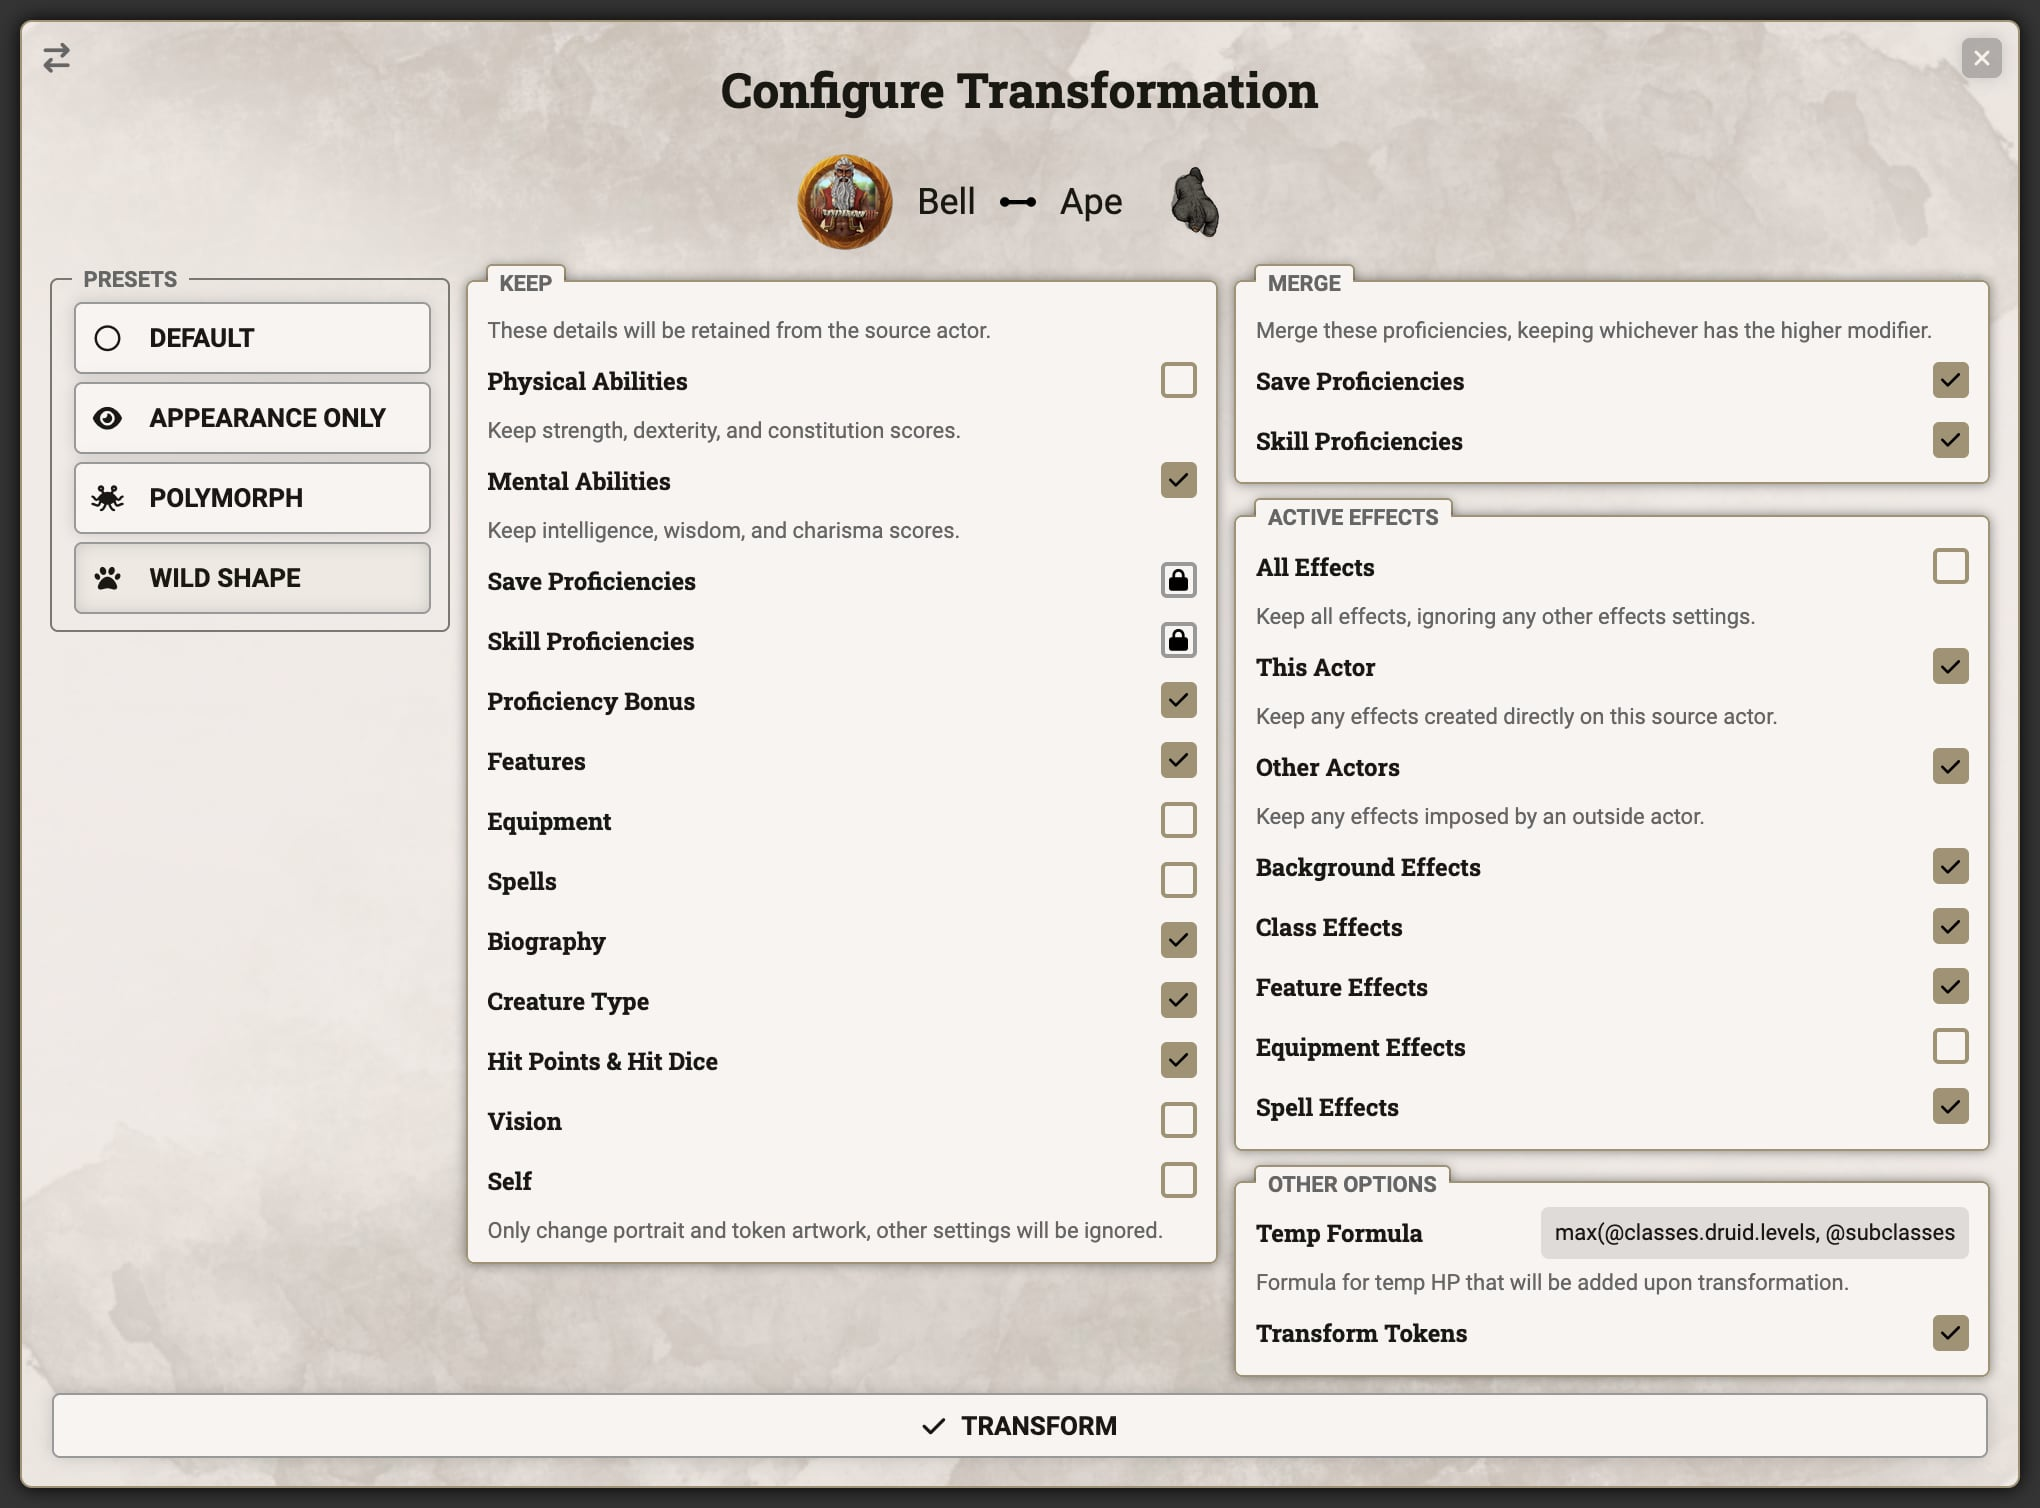
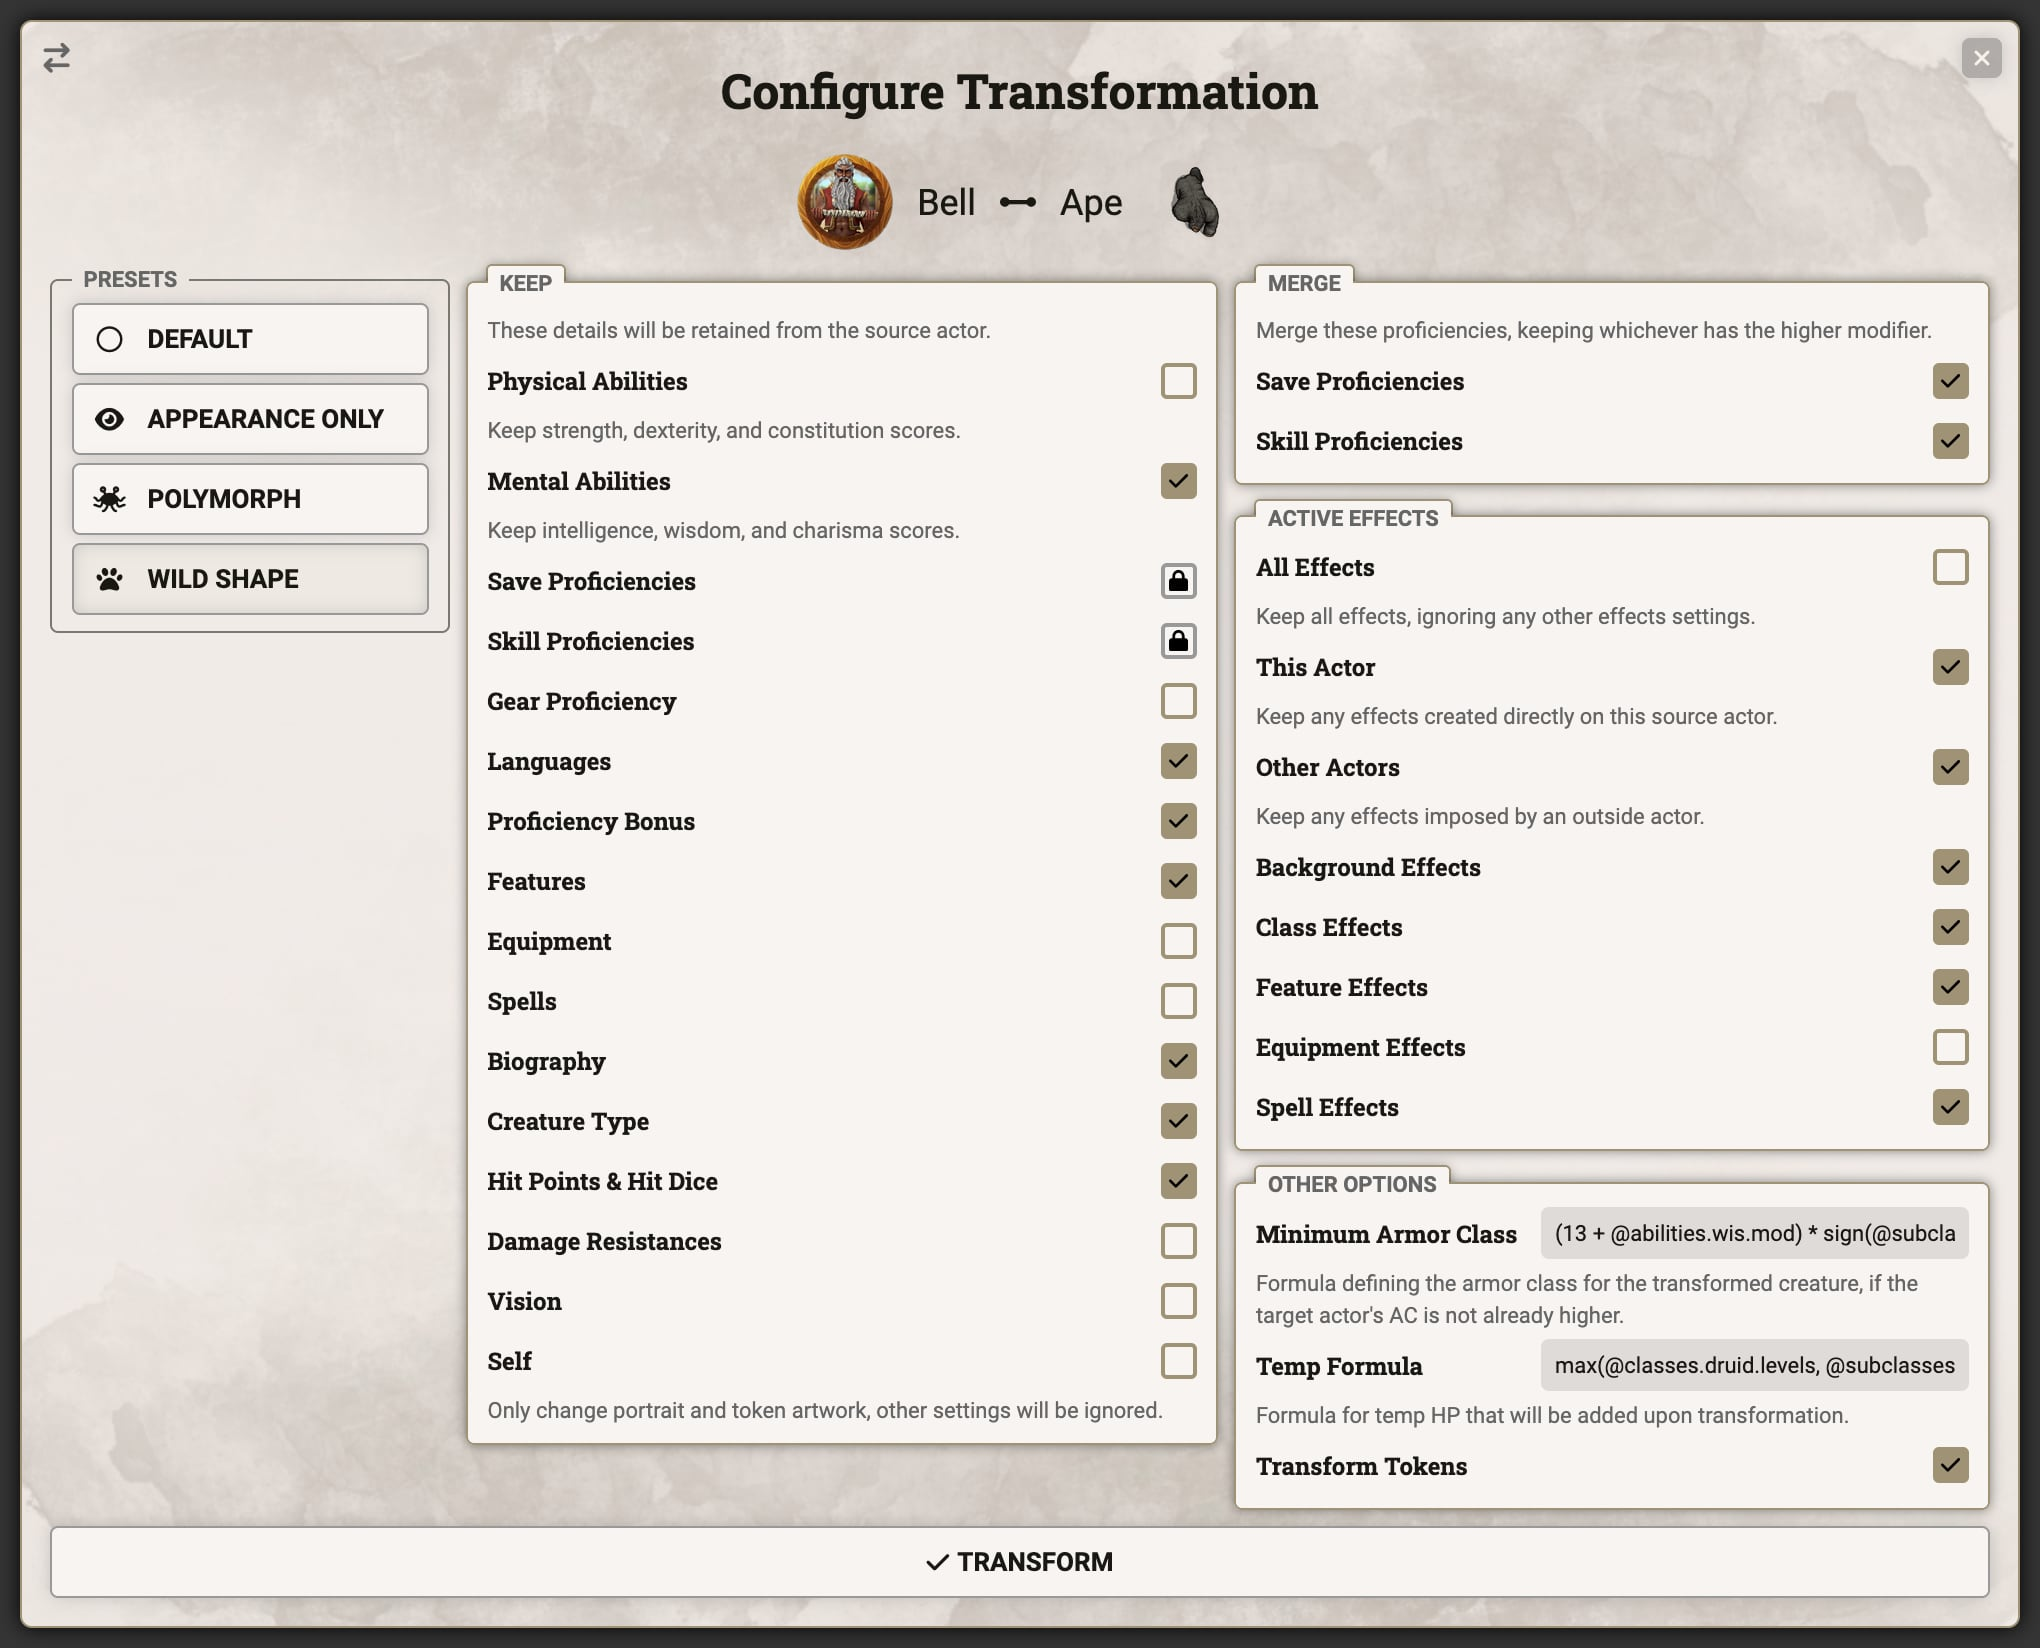
Update Transformation page on Wiki for 5.1 changes

diff --git a/wiki/Transformation.md b/wiki/Transformation.md
@@ -1,4 +1,4 @@
-![Up to date as of 5.0.0](https://img.shields.io/static/v1?label=dnd5e&message=5.0.0&color=informational)
+![Up to date as of 5.1.0](https://img.shields.io/static/v1?label=dnd5e&message=5.1.0&color=informational)
 
 The transformation system allows for modifying an actor using the stats of another. This is useful for features like Wild Shape and spells like Polymorph and Disguise Self. The changes performed can be simple cosmetic changes that alter the token and portrait artwork, or large changes that replaces the altered actors stats and features.
 
@@ -29,7 +29,9 @@ The *Merge* section allows for merging save and skill proficiencies. If this is 
 
 The *Active Effects* section gives fine-grained controls over what effects are still applied to the actor after transformation.
 
-Within the *Other Options* section, the "Temp Formula" allows for granting temporary HP to the newly transformed actor. Since this is a formula, it can use [Roll Data](Roll-Formulas.md) like usual, but it gains access to the roll data of both the original actor and the one being transformed into. Use the base values to access the original actor's stats (e.g. `@classes.druid.levels` to access the original actor's levels) and prefix it be `@source` for the actor being transformed into (e.g. `@source.details.cr` to grab the source actor's challenge rating).
+Within the *Other Options* section, the "Minimum Armor Class" field takes a formula that defines the minimum armor class that will be on the resulting actor. This supports a feature like the Circle of the Moon Druid's improved Wild Shape (which will apply using the default "Wild Shape" preset to any actor that has the right subclass).
+
+The "Temp Formula" allows for granting temporary HP to the newly transformed actor. Since this is a formula, it can use [Roll Data](Roll-Formulas.md) like usual, but it gains access to the roll data of both the original actor and the one being transformed into. Use the base values to access the original actor's stats (e.g. `@classes.druid.levels` to access the original actor's levels) and prefix it be `@source` for the actor being transformed into (e.g. `@source.details.cr` to grab the source actor's challenge rating).
 
 The "Transform Tokens" setting controls whether all associated linked tokens will be changed alongside the base actor. This should usually be checked.
 
